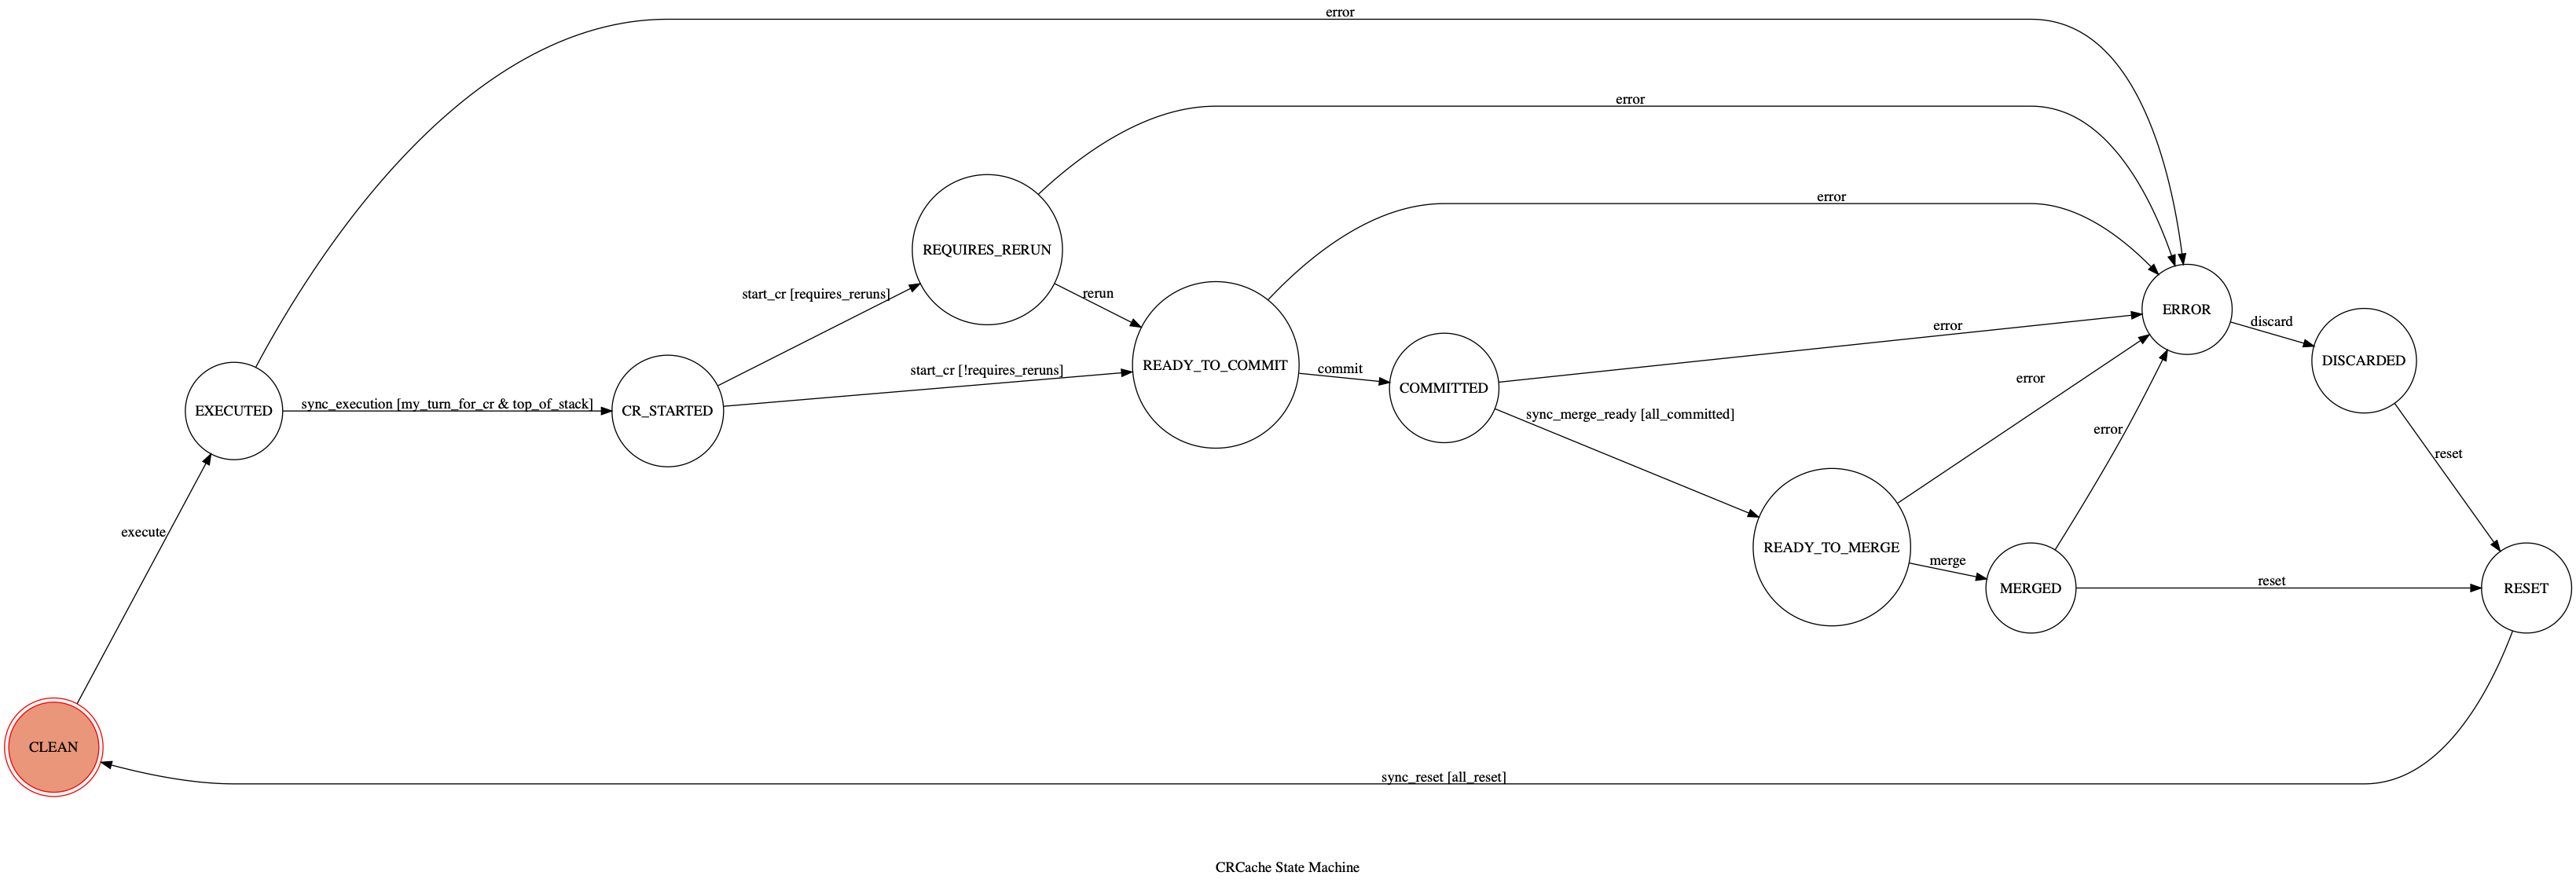
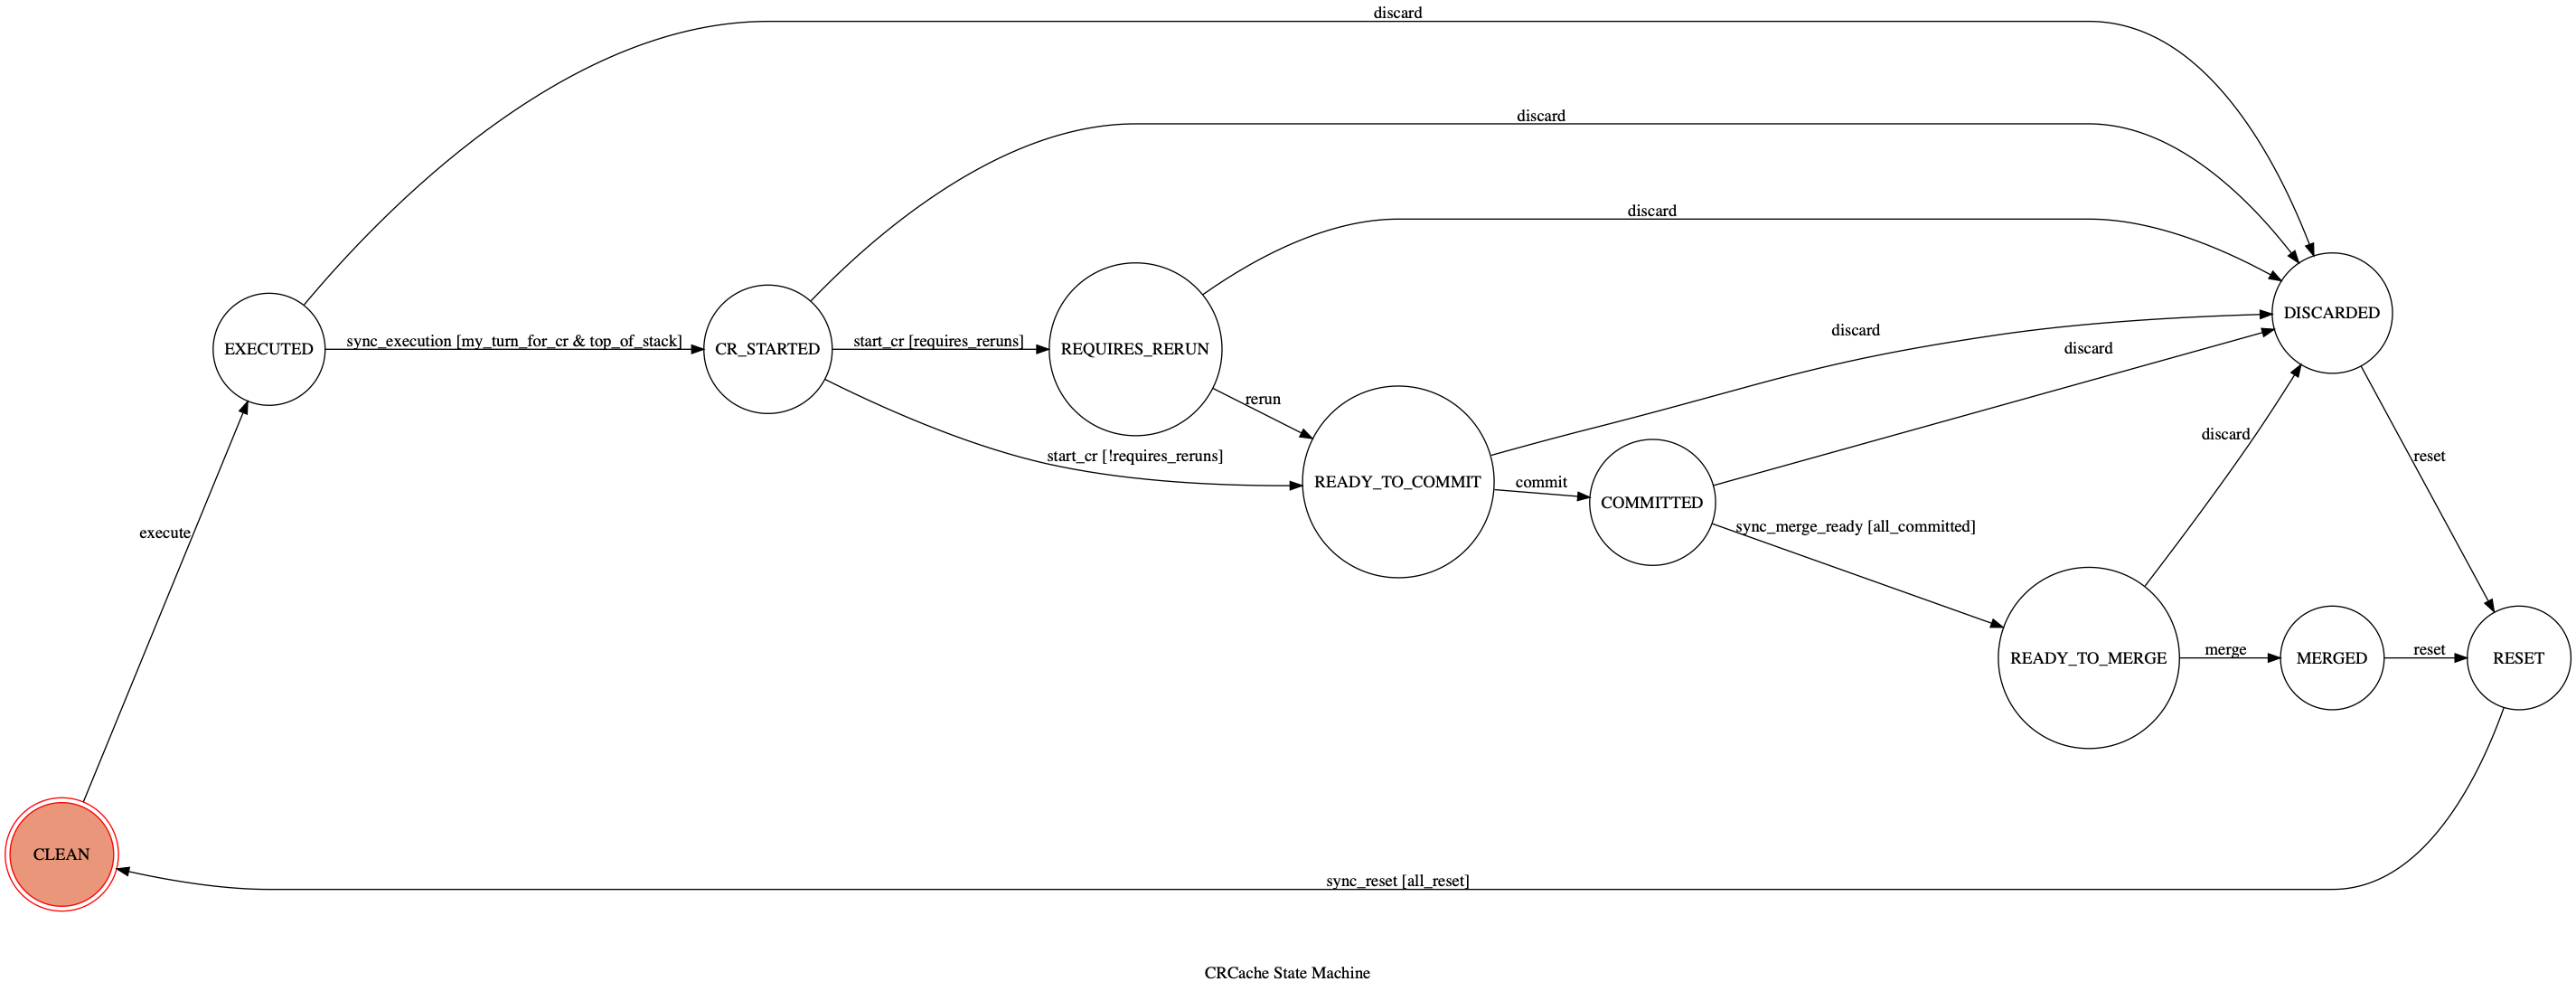
Patches to state machine logic

diff --git a/seneca/db/cr/cache.py b/seneca/db/cr/cache.py
@@ -34,11 +34,11 @@ class CRCache:
 
     states = [
         {'name': 'CLEAN'},
-        {'name': 'EXECUTED', 'timeout': config.EXEC_TIMEOUT, 'on_timeout': 'error'},
+        {'name': 'EXECUTED', 'timeout': config.EXEC_TIMEOUT, 'on_timeout': 'discard'},
         {'name': 'CR_STARTED'},
         {'name': 'REQUIRES_RERUN'},
         {'name': 'READY_TO_COMMIT'},
-        {'name': 'COMMITTED', 'timeout': config.CR_TIMEOUT, 'on_timeout': 'error'},
+        {'name': 'COMMITTED', 'timeout': config.CR_TIMEOUT, 'on_timeout': 'discard'},
         {'name': 'READY_TO_MERGE'},
         {'name': 'MERGED'},
         {'name': 'DISCARDED'},
@@ -120,13 +120,6 @@ class CRCache:
                 'after': 'reset'
             },
             {
-                'trigger': 'discard',
-                'source': 'ERROR',
-                'dest': 'DISCARDED',
-                'before': 'discard_commit',
-                'after': 'reset'
-            },
-            {
                 'trigger': 'reset',
                 'source': ['MERGED', 'DISCARDED'],
                 'dest': 'RESET',
@@ -140,7 +133,7 @@ class CRCache:
             },
             {
                 'trigger': 'discard',
-                'source': ['EXECUTED', 'REQUIRES_RERUN', 'READY_TO_COMMIT', 'COMMITTED', 'READY_TO_MERGE', 'MERGED'],
+                'source': ['EXECUTED', 'CR_STARTED', 'REQUIRES_RERUN', 'READY_TO_COMMIT', 'COMMITTED', 'READY_TO_MERGE'],
                 'dest': 'DISCARDED',
                 'after': 'reset'
             }
@@ -243,5 +236,5 @@ class CRCache:
         return self._check_macro_key(Macros.RESET) == self.num_sbb
 
 if __name__ == "__main__":
-    c = CRCache(1,1,1,1,1,1)
+    c = CRCache(1,1,1,1,1)
     c.machine.get_graph().draw('CRCache_StateMachine.png', prog='dot')

diff --git a/seneca/db/driver.py b/seneca/db/driver.py
@@ -132,7 +132,7 @@ class CacheDriver(DatabaseDriver):
         # the DB
         self.original_values = original_values
         # If we do not have any contract modifications, add a new one
-        if len(contract_modifications) == 0:
+        if len(self.contract_modifications) == 0:
             self.new_tx()
 
     def get(self, key):

diff --git a/seneca/db/cr/client.py b/seneca/db/cr/client.py
@@ -54,6 +54,7 @@ class SubBlockClient:
         self.pending_caches.clear()
 
     def execute_sb(self):
+        return
 
 class SenecaClient:
 